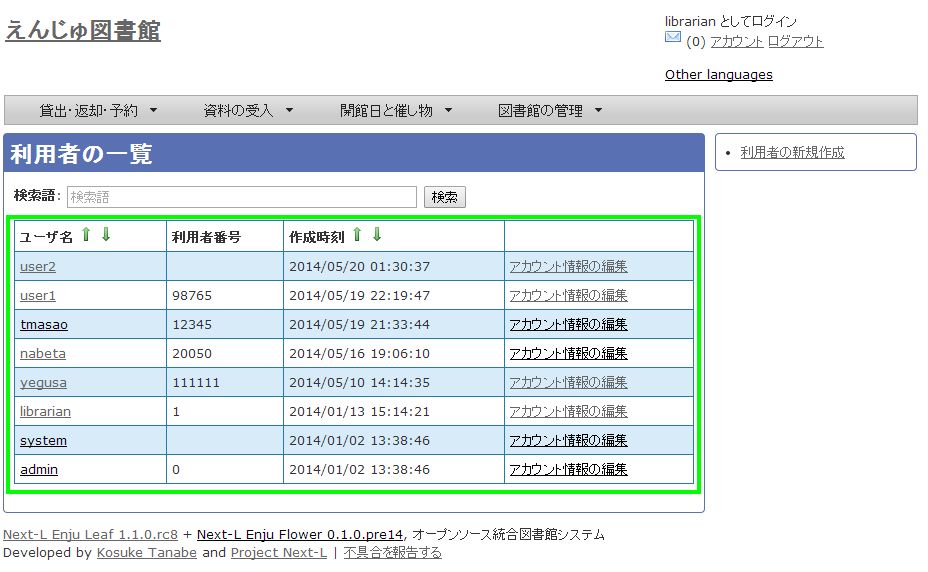
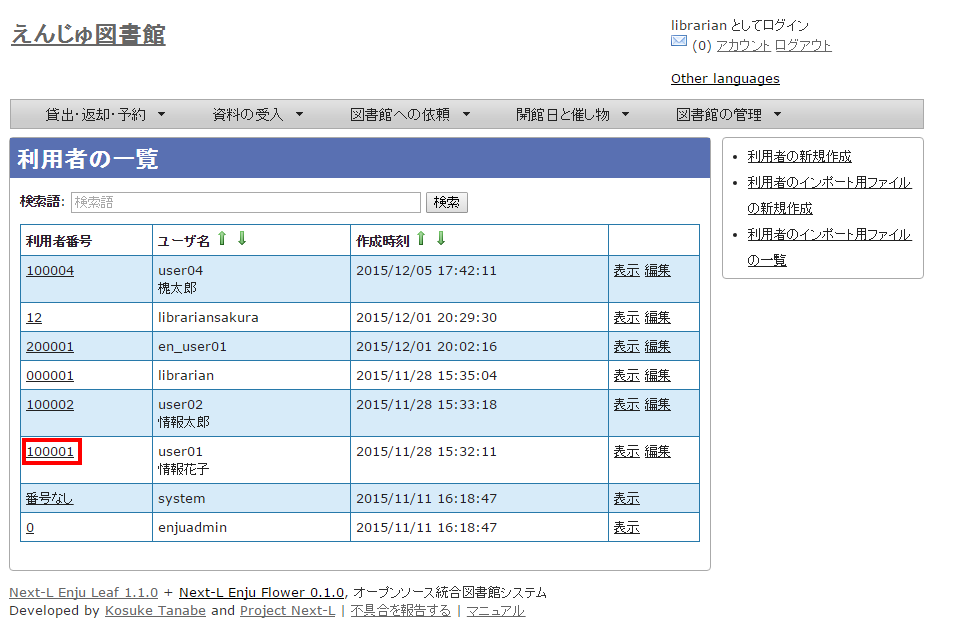
運用マニュアル3-5 をスクリーンショットとともに一通り修正

Changed region(s): [[0.0, 0.1189, 1.0, 1.0], [0.0, 0.0297, 0.1875, 0.0892], [0.6875, 0.0297, 0.875, 0.0892]]

diff --git a/enju_operation_3.md b/enju_operation_3.md
@@ -385,15 +385,32 @@ Next-L Enju Leaf x.x.x.x 以降ではこの機能はありません
 3-5 利用者情報を表示する {#section3-5}
 --------------------------------------
 
-利用者の一覧を、画面上で表示し、印刷することができます。
+利用者の一覧を、画面上で表示し、利用者情報を表示することができます。
 
 #### 1. ［図書館の管理］メニューから［利用者の管理］を選択します。  
 
 ![利用者の管理](assets/images/image_operation_user.png)
 
-#### 2. 利用者一覧が表示されます。
+#### 2. 利用者一覧が表示されます。詳細を知りたい利用者の[利用者番号]のリンクをクリックします。一覧に利用者が表示されない場合は、検索することもできます。検索する方法は 次の節を参照してください。
 
 ![利用者一覧](assets/images/image_operation_068.png)
+
+#### 3. 当該利用者の利用者情報が表示されます。
+
+![利用者の詳細情報](assets/images/image_operation_068_2.png)
+
+<div class="alert alert-info memo" markdown="1">
+【Memo】
+
+* 貸出の表には、貸出情報が表示されます。「貸出の履歴を保存する」にチェックが入っていた場合は、返却後の貸出履歴も表示されます。
+* 右メニューにある「図書 : 1/ 10」は、「借りている本の数 / 借りられる上限数」を表しています。
+* 右メニューの[編集]リンクをたどると、編集画面へ遷移します。本表示画面に表示されていない項目（メールアドレスなど）も編集画面で内容を確かめることができるものがあります。
+* 右メニューの[メッセージを送信する]リンクをたどると、当該利用者へのメッセージ送信画面へ遷移します。
+* 右メニューの[利用者の新規作成]リンクをたどると、利用者の新規作成画面へ遷移します。
+* 右メニューの[貸出]リンクをたどると、貸出の一覧画面へ遷移します。
+* 右メニューの[予約]リンクをたどると、予約の一覧画面へ遷移します。
+* 右メニューの[購入リクエスト]リンクをたどると、購入リクエストの一覧画面へ遷移します。
+</div>
 
 3-6 利用者を検索する {#section3-6}
 ----------------------------------
